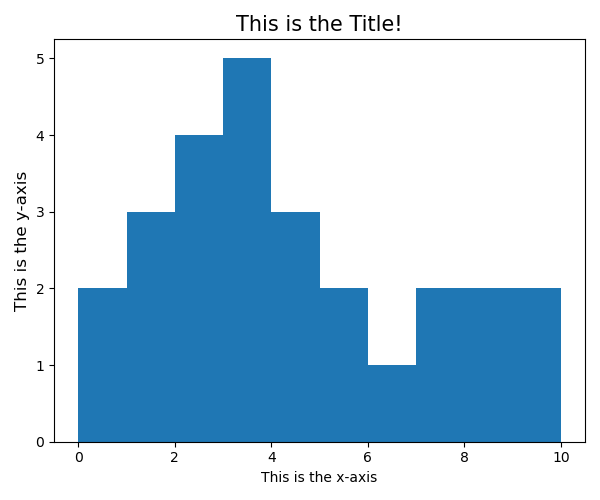
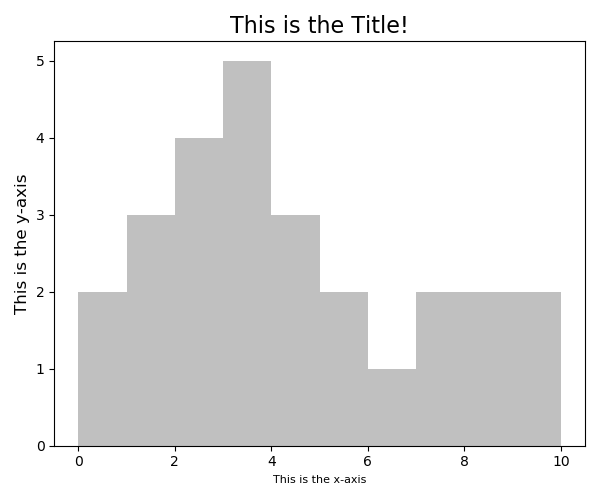
Modifying the images colors
changing the color to suit complementary colors

diff --git a/docs/basic-plotting-with-matplotlib.html b/docs/basic-plotting-with-matplotlib.html
@@ -99,36 +99,6 @@
 <span class="n">err</span> <span class="o">=</span> <span class="p">[</span><span class="mf">0.0</span><span class="p">,</span> <span class="mf">0.5</span><span class="p">,</span> <span class="mf">1.0</span><span class="p">,</span> <span class="mf">1.5</span><span class="p">,</span> <span class="mf">2.0</span><span class="p">,</span> <span class="mf">2.5</span><span class="p">]</span>
 
 <span class="c1"># Lets start plotting</span>
-</pre></div>
-</code></pre>
-</div>
-</div>
-<div id="results-1" class="section level4 unnumbered panelset">
-<h4>Results<a class="anchor" aria-label="anchor" href="#results-1"><i class="fas fa-link"></i></a>
-</h4>
-<p><br><img src="python_outputs/__my_python_output__a-simple-plot.py.png" class="python-result-img"></p>
-</div>
-<div id="code-1" class="section level4 unnumbered panelset">
-<h4>Code<a class="anchor" aria-label="anchor" href="#code-1"><i class="fas fa-link"></i></a>
-</h4>
-<p><br></p>
-<ul>
-<li>You can have only a <code>scatter</code> (without error bars) by using scatter (which is commented below).</li>
-<li>
-<code>fmt</code> is short for ‘format string.’ This decides the shape of the data point.</li>
-<li>The <span class="math inline">\(…\)</span> allows us to use (a limited set of) LaTeX commands!</li>
-</ul>
-<div class="sourceCode">
-<pre class="sourceCode python"><code class="sourceCode python"><div class="highlight"><pre><span></span><span class="kn">from</span> <span class="nn">matplotlib</span> <span class="kn">import</span> <span class="n">pyplot</span> <span class="k">as</span> <span class="n">plt</span>
-
-<span class="c1"># Some data for plotting</span>
-<span class="n">x</span> <span class="o">=</span> <span class="p">[</span><span class="mi">0</span><span class="p">,</span> <span class="mi">1</span><span class="p">,</span> <span class="mi">2</span><span class="p">,</span> <span class="mi">3</span><span class="p">,</span> <span class="mi">4</span><span class="p">,</span> <span class="mi">5</span><span class="p">]</span>
-<span class="n">y_0</span> <span class="o">=</span> <span class="p">[</span><span class="mi">0</span><span class="p">,</span><span class="mf">1.5</span><span class="p">,</span><span class="mi">3</span><span class="p">,</span><span class="mf">4.5</span><span class="p">,</span><span class="mi">6</span><span class="p">,</span><span class="mf">7.5</span><span class="p">]</span>
-<span class="n">y_1</span> <span class="o">=</span> <span class="p">[</span><span class="mi">0</span><span class="p">,</span> <span class="mi">2</span><span class="p">,</span> <span class="mi">4</span><span class="p">,</span> <span class="mi">6</span><span class="p">,</span> <span class="mi">8</span><span class="p">,</span> <span class="mi">10</span><span class="p">]</span>
-<span class="n">y_2</span> <span class="o">=</span> <span class="p">[</span><span class="mi">0</span><span class="p">,</span> <span class="mi">4</span><span class="p">,</span> <span class="mi">8</span><span class="p">,</span> <span class="mi">12</span><span class="p">,</span> <span class="mi">16</span><span class="p">,</span> <span class="mi">20</span><span class="p">]</span>
-<span class="n">err</span> <span class="o">=</span> <span class="p">[</span><span class="mf">0.0</span><span class="p">,</span> <span class="mf">0.5</span><span class="p">,</span> <span class="mf">1.0</span><span class="p">,</span> <span class="mf">1.5</span><span class="p">,</span> <span class="mf">2.0</span><span class="p">,</span> <span class="mf">2.5</span><span class="p">]</span>
-
-<span class="c1"># Lets start plotting</span>
 <span class="n">plt</span><span class="o">.</span><span class="n">figure</span><span class="p">(</span><span class="n">figsize</span><span class="o">=</span><span class="p">(</span><span class="mi">5</span><span class="p">,</span> <span class="mi">5</span><span class="p">))</span>
 <span class="n">plt</span><span class="o">.</span><span class="n">plot</span><span class="p">(</span><span class="n">x</span><span class="p">,</span><span class="n">y_0</span> <span class="p">,</span><span class="n">color</span><span class="o">=</span><span class="s2">"#004B63"</span><span class="p">,</span> <span class="n">label</span><span class="o">=</span><span class="s1">'$Y_0$ values'</span><span class="p">)</span>
 <span class="n">plt</span><span class="o">.</span><span class="n">scatter</span><span class="p">(</span><span class="n">x</span><span class="p">,</span> <span class="n">y_1</span><span class="p">,</span> <span class="n">color</span><span class="o">=</span><span class="s2">"#30B8B2"</span><span class="p">,</span> <span class="n">linestyle</span><span class="o">=</span><span class="s1">'dashed'</span><span class="p">,</span> <span class="n">label</span><span class="o">=</span><span class="s1">'$Y_1$ values'</span><span class="p">)</span>
@@ -154,12 +124,12 @@
 </h4>
 <p><br><img src="python_outputs/__my_python_output__matplotlib-histograms.py.png" class="python-result-img"></p>
 </div>
-<div id="code-2" class="section level4 unnumbered panelset">
-<h4>Code<a class="anchor" aria-label="anchor" href="#code-2"><i class="fas fa-link"></i></a>
+<div id="code-1" class="section level4 unnumbered panelset">
+<h4>Code<a class="anchor" aria-label="anchor" href="#code-1"><i class="fas fa-link"></i></a>
 </h4>
 <p><br></p>
 <ul>
-<li>We generate a set of data that are Normally distributed</li>
+<li>We generate a set of data that are Continously distributed</li>
 <li>We used <code>plt.hist()</code> to generate the histogram!</li>
 </ul>
 <div class="sourceCode">
@@ -172,12 +142,12 @@
 
 
 <span class="c1"># Actual plotting #</span>
-<span class="n">plt</span><span class="o">.</span><span class="n">hist</span><span class="p">(</span><span class="n">data</span><span class="p">,</span> <span class="n">bins</span> <span class="o">=</span> <span class="mi">10</span><span class="p">)</span>
+<span class="n">plt</span><span class="o">.</span><span class="n">hist</span><span class="p">(</span><span class="n">data</span><span class="p">,</span> <span class="n">bins</span> <span class="o">=</span> <span class="mi">10</span><span class="p">,</span><span class="n">color</span><span class="o">=</span><span class="s1">'#C0C0C0'</span><span class="p">)</span>
 
 <span class="c1"># Aesthetics #</span>
-<span class="n">plt</span><span class="o">.</span><span class="n">xlabel</span><span class="p">(</span><span class="s1">'This is the x-axis'</span><span class="p">)</span>
+<span class="n">plt</span><span class="o">.</span><span class="n">xlabel</span><span class="p">(</span><span class="s1">'This is the x-axis'</span><span class="p">,</span> <span class="n">fontsize</span> <span class="o">=</span><span class="mi">8</span><span class="p">)</span>
 <span class="n">plt</span><span class="o">.</span><span class="n">ylabel</span><span class="p">(</span><span class="s1">'This is the y-axis'</span><span class="p">,</span> <span class="n">fontsize</span> <span class="o">=</span> <span class="mi">12</span><span class="p">)</span>
-<span class="n">plt</span><span class="o">.</span><span class="n">title</span><span class="p">(</span><span class="s1">'This is the Title!'</span><span class="p">,</span> <span class="n">fontsize</span> <span class="o">=</span> <span class="mi">15</span><span class="p">)</span>
+<span class="n">plt</span><span class="o">.</span><span class="n">title</span><span class="p">(</span><span class="s1">'This is the Title!'</span><span class="p">,</span> <span class="n">fontsize</span> <span class="o">=</span> <span class="mi">16</span><span class="p">)</span>
 <span class="n">plt</span><span class="o">.</span><span class="n">tight_layout</span><span class="p">()</span>
 <span class="n">plt</span><span class="o">.</span><span class="n">show</span><span class="p">()</span>
 </pre></div>
@@ -194,13 +164,14 @@
 </h4>
 <p><br><img src="python_outputs/__my_python_output__matplotlib-boxplot.py.png" class="python-result-img"></p>
 </div>
-<div id="code-3" class="section level4 unnumbered panelset">
-<h4>Code<a class="anchor" aria-label="anchor" href="#code-3"><i class="fas fa-link"></i></a>
+<div id="code-2" class="section level4 unnumbered panelset">
+<h4>Code<a class="anchor" aria-label="anchor" href="#code-2"><i class="fas fa-link"></i></a>
 </h4>
 <p><br></p>
 <ul>
 <li>We generate a set of data that are Normally distributed</li>
 <li>We used <code>plt.boxplot()</code> to generate the boxplot!</li>
+<li>Here we used another package,numpy to create a separate array</li>
 </ul>
 <div class="sourceCode">
 <pre class="sourceCode python"><code class="sourceCode python"><div class="highlight"><pre><span></span><span class="kn">from</span> <span class="nn">matplotlib</span> <span class="kn">import</span> <span class="n">pyplot</span> <span class="k">as</span> <span class="n">plt</span>
@@ -237,8 +208,8 @@
 </h4>
 <p><br><img src="python_outputs/__my_python_output__matplotlib-same-axis-plotting.py.png" class="python-result-img"></p>
 </div>
-<div id="code-4" class="section level4 unnumbered panelset">
-<h4>Code<a class="anchor" aria-label="anchor" href="#code-4"><i class="fas fa-link"></i></a>
+<div id="code-3" class="section level4 unnumbered panelset">
+<h4>Code<a class="anchor" aria-label="anchor" href="#code-3"><i class="fas fa-link"></i></a>
 </h4>
 <p><br></p>
 <ul>
@@ -289,8 +260,8 @@
 </h4>
 <p><br><img src="python_outputs/__my_python_output__matplotlib-diff-axis-plotting.py.png" class="python-result-img"></p>
 </div>
-<div id="code-5" class="section level4 unnumbered panelset">
-<h4>Code<a class="anchor" aria-label="anchor" href="#code-5"><i class="fas fa-link"></i></a>
+<div id="code-4" class="section level4 unnumbered panelset">
+<h4>Code<a class="anchor" aria-label="anchor" href="#code-4"><i class="fas fa-link"></i></a>
 </h4>
 <p><br></p>
 <ul>
@@ -351,8 +322,8 @@ the same figure!</li>
 </h4>
 <p><br><img src="python_outputs/__my_python_output__matplotlib-advanced.py.png" class="python-result-img"></p>
 </div>
-<div id="code-6" class="section level4 unnumbered panelset">
-<h4>Code<a class="anchor" aria-label="anchor" href="#code-6"><i class="fas fa-link"></i></a>
+<div id="code-5" class="section level4 unnumbered panelset">
+<h4>Code<a class="anchor" aria-label="anchor" href="#code-5"><i class="fas fa-link"></i></a>
 </h4>
 <p><br></p>
 <ul>

diff --git a/files_python/matplotlib-histograms.py b/files_python/matplotlib-histograms.py
@@ -2,7 +2,7 @@
 
 # %% Code
 '''
-- We generate a set of data that are Normally distributed
+- We generate a set of data that are Continously distributed
 - We used `plt.hist()` to generate the histogram!
 '''
 
@@ -17,12 +17,12 @@ data = [0,0,1,1,1,2,2,2,2,3,3,3,3,3,4,4,4,5,5,6,7,7,8,8,9,10]
 fig, ax = plt.subplots(figsize=(6, 5)) # Hide
 
 # Actual plotting #
-plt.hist(data, bins = 10)
+plt.hist(data, bins = 10,color='#C0C0C0')
 
 # Aesthetics #
-plt.xlabel('This is the x-axis')
+plt.xlabel('This is the x-axis', fontsize =8)
 plt.ylabel('This is the y-axis', fontsize = 12)
-plt.title('This is the Title!', fontsize = 15)
+plt.title('This is the Title!', fontsize = 16)
 plt.tight_layout()
 plt.savefig(f'{argv[0]}.png')  # Hide
 plt.show()

diff --git a/files_python/a-simple-plot.py b/files_python/a-simple-plot.py
@@ -1,24 +1,4 @@
-# %% Results
 
-# %% Code
-'''
-- You can have only a `scatter` (without error bars) by using scatter (which is commented below).
-- `fmt` is short for ‘format string’. This decides the shape of the data point.
-- The $…$ allows us to use (a limited set of) LaTeX commands!
-'''
-
-from sys import argv  # Hide
-
-from matplotlib import pyplot as plt
-
-# Some data for plotting
-x = [0, 1, 2, 3, 4, 5]
-y_0 = [0,1.5,3,4.5,6,7.5]
-y_1 = [0, 2, 4, 6, 8, 10]
-y_2 = [0, 4, 8, 12, 16, 20]
-err = [0.0, 0.5, 1.0, 1.5, 2.0, 2.5]
-
-# Lets start plotting
 # %% Results
 
 # %% Code

diff --git a/files_python/matplotlib-boxplot.py b/files_python/matplotlib-boxplot.py
@@ -4,6 +4,7 @@
 '''
 - We generate a set of data that are Normally distributed
 - We used `plt.boxplot()` to generate the boxplot!
+- Here we used another package,numpy to create a separate array
 '''
 
 from sys import argv  # Hide
